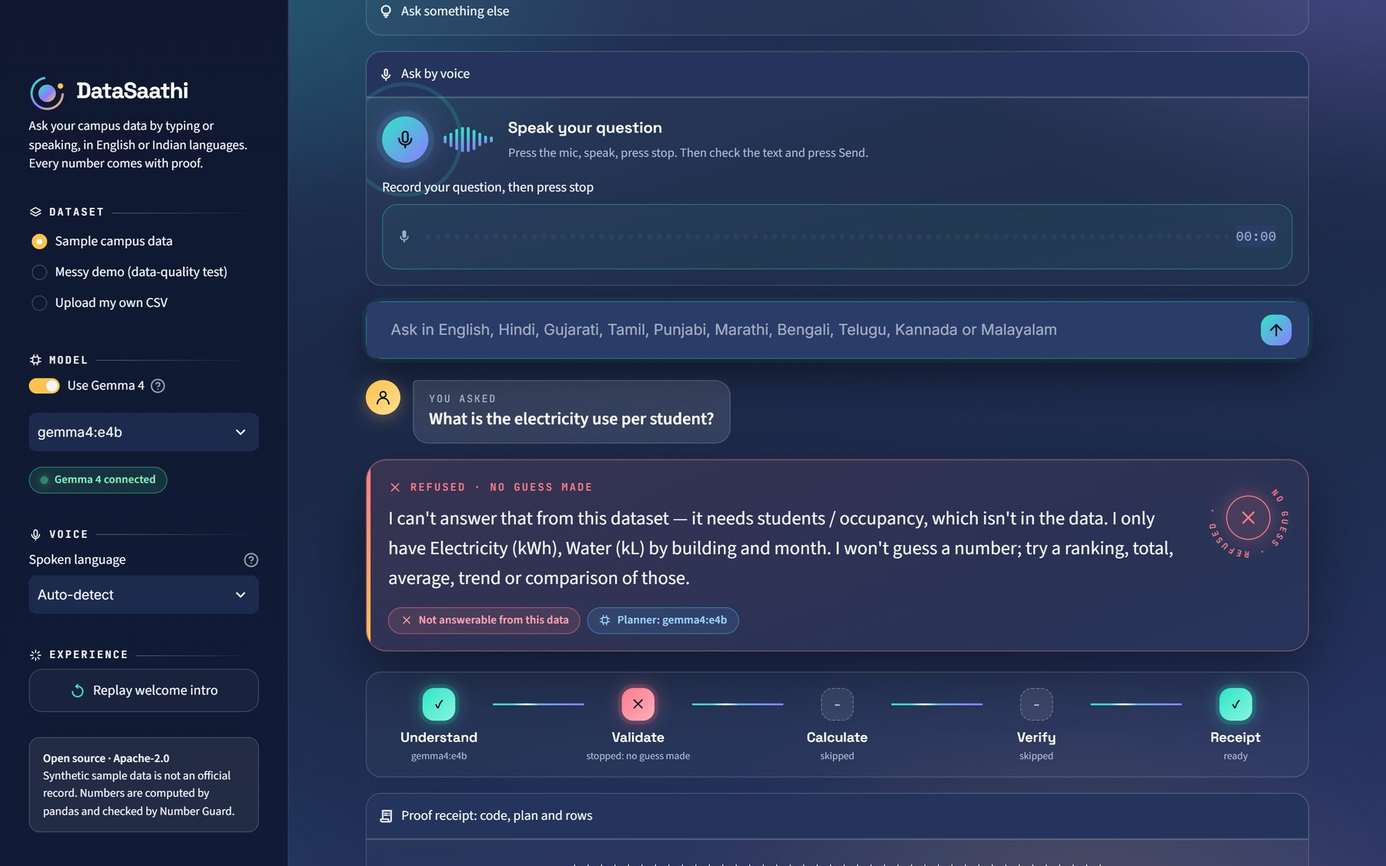
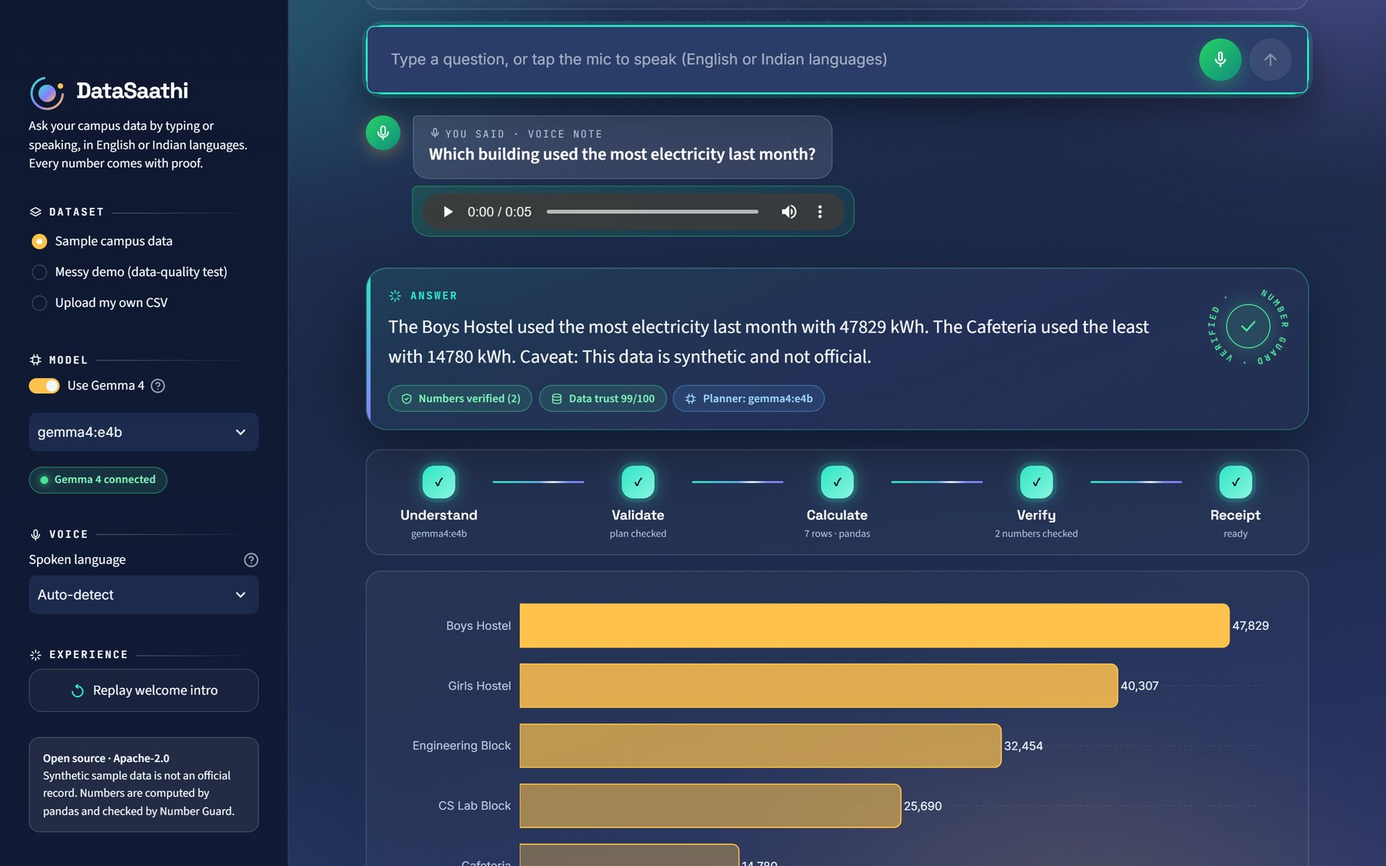
Voice works like a WhatsApp voice note
- the separate "Ask by voice" panel is replaced by a green mic inside the
  question bar (st.chat_input with accept_audio): record, tap the check to
  send or the cross to delete, with a red "Recording" label while it runs
- a sent voice note is transcribed and asked straight away (no extra
  confirm step), and shows as a voice-note bubble that can be replayed
- silent or unclear recordings get a clear message instead of no output
- Whisper is preloaded in the background at start, so the first voice
  note does not wait for the model to load
- README, pitch and design notes describe the new flow; new voice screenshot

Changed region(s): [[0.2489, 0.3111, 0.9333, 1.0], [0.2489, 0.0, 0.9644, 0.28], [0.8711, 0.2489, 0.9333, 0.3111]]

diff --git a/datasaathi/datasaathi/theme.css b/datasaathi/datasaathi/theme.css
@@ -351,7 +351,6 @@ div[data-testid="stButton"] > button:disabled { opacity:.45; transform:none; box
   box-shadow:0 0 0 4px rgba(46,230,197,.06), 0 16px 40px rgba(0,0,0,.45); backdrop-filter:blur(14px); }
 [data-testid="stChatInput"]:focus-within { border-color:var(--teal) !important; box-shadow:0 0 0 4px rgba(46,230,197,.16), 0 16px 40px rgba(0,0,0,.45); }
 [data-testid="stChatInput"] textarea { font-size:.98rem; }
-[data-testid="stChatInputSubmitButton"] { background:linear-gradient(135deg,var(--teal),var(--violet)) !important; border-radius:12px !important; color:#04121A !important; }
 [data-testid="stTextInput"] input, [data-baseweb="select"] > div, [data-baseweb="input"] { background:rgba(255,255,255,.04) !important; border-color:var(--hair) !important; border-radius:12px !important; }
 [data-testid="stAudioInput"] > div { border-radius:var(--r-md); border:1px solid rgba(46,230,197,.3); background:rgba(46,230,197,.05); }
 [data-testid="stRadio"] label { padding:.3rem .2rem; }
@@ -368,11 +367,6 @@ hr { border-color:var(--hair) !important; }
 [class*="st-key-scroller"] iframe { height:0 !important; border:0; }
 [data-testid="stElementContainer"]:has(> [class*="st-key-scroller"]), [data-testid="stLayoutWrapper"]:has(> [class*="st-key-scroller"]) { margin:0 !important; height:0; }
 
-/* ---------- voice: after recording, Send replaces play/pause ---------- */
-[data-testid="stAudioInput"] button[aria-label="Play"], [data-testid="stAudioInput"] button[aria-label="Pause"] { display:none !important; }
-.st-key-voice_send { padding:.9rem 1rem .8rem; border-radius:var(--r-md); background:linear-gradient(135deg,rgba(46,230,197,.10),rgba(139,124,255,.10));
-  border:1px solid rgba(46,230,197,.32); margin-top:.3rem; }
-.st-key-voice_send div[data-testid="stButton"] > button[kind="primary"] { min-height:2.65rem; font-size:1rem; }
 .listen { margin:.6rem 0 .4rem !important; }
 .listen .lt { display:flex; align-items:center; gap:.5rem; font-family:var(--display); font-weight:600; font-size:1.02rem; color:#fff; }
 .listen .lt svg { width:18px; height:18px; color:var(--teal); animation:pulse 1.2s infinite; }
@@ -522,3 +516,28 @@ div[data-testid="stButton"] > button[kind="primary"]::before { background:rgba(2
 .think .drops i:nth-child(2) { background:var(--violet); animation-delay:.15s; } .think .drops i:nth-child(3) { background:var(--amber); animation-delay:.3s; }
 @keyframes dropbounce { 0%,100% { transform:translateY(0) scale(1); } 50% { transform:translateY(-14px) scale(.82); } }
 @media (max-width:560px) { .think .drops { display:none; } }
+
+/* ============ WhatsApp-style voice in the message bar ============ */
+:root { --wa:#25D366; --wa-d:#128C7E; }
+[data-testid="stChatInputMicButton"], [data-testid="stChatInputApproveButton"], [data-testid="stChatInputSubmitButton"] {
+  width:44px !important; height:44px !important; min-width:44px; border-radius:50% !important; border:none !important; display:grid; place-items:center; }
+[data-testid="stChatInputMicButton"], [data-testid="stChatInputApproveButton"], [data-testid="stChatInputSubmitButton"]:not(:disabled) {
+  background:linear-gradient(135deg,var(--wa),var(--wa-d)) !important; box-shadow:0 6px 18px rgba(37,211,102,.35); }
+[data-testid="stChatInputSubmitButton"]:disabled { background:rgba(255,255,255,.08) !important; box-shadow:none; }
+[data-testid="stChatInputMicButton"], [data-testid="stChatInputApproveButton"], [data-testid="stChatInputSubmitButton"]:not(:disabled) { color:#fff !important; }
+[data-testid="stChatInputMicButton"] svg, [data-testid="stChatInputApproveButton"] svg, [data-testid="stChatInputSubmitButton"]:not(:disabled) svg { color:#fff !important; }
+[data-testid="stChatInputMicButton"]:hover, [data-testid="stChatInputApproveButton"]:hover { transform:scale(1.08); }
+[data-testid="stChatInputApproveButton"] { width:50px !important; height:50px !important; animation:pulse-wa 1.6s ease-in-out infinite; }
+@keyframes pulse-wa { 0%,100% { box-shadow:0 0 0 0 rgba(37,211,102,.55); } 60% { box-shadow:0 0 0 10px rgba(37,211,102,0); } }
+[data-testid="stChatInputCancelButton"] { width:40px !important; height:40px !important; border-radius:50% !important; background:rgba(255,122,138,.14) !important; }
+[data-testid="stChatInputCancelButton"], [data-testid="stChatInputCancelButton"] svg { color:var(--coral) !important; }
+/* while recording: red pulsing dot and label at the start of the bar */
+[data-testid="stChatInput"]:has([data-testid="stChatInputApproveButton"]) { border-color:rgba(255,122,138,.55) !important; box-shadow:0 0 0 4px rgba(255,122,138,.10), 0 16px 40px rgba(0,0,0,.45); position:relative; }
+[data-testid="stChatInput"]:has([data-testid="stChatInputApproveButton"])::before { content:"● Recording · tap ✓ to send, ✕ to delete"; position:absolute; left:18px; top:-24px;
+  font:600 .74rem var(--body); color:var(--coral); letter-spacing:.02em; animation:pulse 1.2s infinite; }
+/* the sent voice note: a green bubble with the player, under the question */
+[class*="st-key-vnote_"] { max-width:460px; margin:-.35rem 0 .8rem 3rem; padding:.45rem .6rem .35rem; border-radius:6px 18px 18px 18px;
+  background:linear-gradient(135deg,rgba(37,211,102,.18),rgba(18,140,126,.16)); border:1px solid rgba(37,211,102,.35); }
+[class*="st-key-vnote_"] audio { width:100%; height:38px; }
+.ask-bubble.voice .av { background:linear-gradient(135deg,var(--wa),var(--wa-d)); color:#fff; }
+.ask-bubble .l svg { width:12px; height:12px; vertical-align:-1px; margin-right:.3rem; }

diff --git a/datasaathi/app.py b/datasaathi/app.py
@@ -1,7 +1,6 @@
 """DataSaathi 2.0: ask community data questions in English or Indian languages, by typing or speaking.
 Every answer is computed by code and ships with a Proof Receipt.
 Tabs: Ask · Waste Radar · Data Trust · History. 2.0 changes only the visual layer (ui.py, theme.css, charts)."""
-import hashlib
 import json
 from pathlib import Path
 import pandas as pd
@@ -46,6 +45,14 @@ def warm_model(name: str):
     return True
 
 
+@st.cache_resource(show_spinner=False)
+def warm_voice():
+    """Load the speech model in the background once, so the first voice note does not wait for it."""
+    import threading
+    threading.Thread(target=voice.warm, daemon=True).start()
+    return True
+
+
 # ---------------- sidebar ----------------
 with st.sidebar:
     st.markdown(ui.brand(), unsafe_allow_html=True)
@@ -72,6 +79,8 @@ with st.sidebar:
                    "eight other Indian languages for common phrasings). To enable Gemma 4: `ollama pull gemma4:e4b`, then refresh.")
     st.markdown(ui.side_h("mic", "Voice"), unsafe_allow_html=True)
     voice_lang = st.selectbox("Spoken language", list(voice.STT_LANGUAGES), help="Pick the language you will speak, or Auto-detect.")
+    if voice.available():
+        warm_voice()
     st.markdown(ui.side_h("spark", "Experience"), unsafe_allow_html=True)
     if st.button("Replay welcome intro", width="stretch", icon=":material/replay:"):
         st.session_state["intro_seen"] = False
@@ -91,6 +100,22 @@ def load_named(name: str):
 def explain_finding(f, use_gemma: bool, model: str):
     """Waste Radar wording, cached so Gemma is not asked again on every click (the text itself is unchanged)."""
     return waste_radar.explain(f, use_gemma=use_gemma, model=model)
+
+
+def voice_to_text(clip: bytes, lang_label: str) -> tuple[str | None, str]:
+    """(transcript, problem): the transcript of a voice note, or None and a plain reason why there is none."""
+    lvl = voice.level(clip)
+    if lvl and lvl[1] < voice.SILENT_PEAK:
+        return None, (f"Could not hear anything: the {lvl[0]:.1f} s voice note is silent, so the browser got no sound from your "
+                      "microphone. Check that the mic is not muted (Windows: Settings → System → Sound → Input) and that the "
+                      "browser may use it (the icon at the left of the address bar), then record again.")
+    try:
+        heard, _ = voice.transcribe(clip, voice.STT_LANGUAGES[lang_label])
+    except Exception as exc:
+        return None, f"Could not turn the voice note into text ({type(exc).__name__}: {exc}). Please type the question instead."
+    if not heard.strip():
+        return None, "No speech was found in the voice note. Speak a little closer to the microphone and send it again."
+    return heard.strip(), ""
 
 
 def campus_kpis(df: pd.DataFrame, card, limit: int = 4) -> list[dict]:
@@ -141,7 +166,11 @@ def scroll_to(selector: str, block: str = "start"):
 
 def show(a, where: str, fresh: bool):
     """Render one answer: question, answer, pipeline trace, chart/table, caveats and the Proof Receipt."""
-    st.markdown(ui.question(a.question), unsafe_allow_html=True)
+    clip = st.session_state.get("voice_clips", {}).get(id(a))
+    st.markdown(ui.question(a.question, voice=clip is not None), unsafe_allow_html=True)
+    if clip is not None:
+        with st.container(key=f"vnote_{where}"):
+            st.audio(clip, format="audio/wav")
     refused = a.status == "refused"
     st.markdown(ui.answer_box(a.text, refused, None if refused else (a.guard.ok if a.guard else None),
                               len(a.guard.checked) if a.guard else 0, a.planner, a.trust_score, fresh=fresh), unsafe_allow_html=True)
@@ -198,69 +227,34 @@ with tab_ask:
                     if cols[i].button(s_, key=f"s{gi}_{start + i}", width="stretch", icon=mat):
                         clicked = s_
 
-    voice_q = None
-    with st.expander("Ask by voice", icon=":material/mic:"):
-        if not voice.available():
-            st.info("Voice questions need the speech model. Run `pip install faster-whisper` and restart the app. "
-                    "The Colab notebook installs it for you.")
+    # one message bar like WhatsApp: type, or tap the mic, record, replay or delete the clip, then send
+    voice_ok = voice.available()
+    sent = st.chat_input("Type a question, or tap the mic to speak (English or Indian languages)", accept_audio=voice_ok,
+                         key="ask_bar")
+    typed, clip, heard = None, None, None
+    if sent is not None:
+        typed = ((sent.text if voice_ok else sent) or "").strip() or None
+        clip = sent.audio.getvalue() if voice_ok and sent.audio is not None else None
+    if clip:
+        busy = st.empty()                          # our own loader while Whisper turns the voice note into text
+        busy.markdown(ui.listening(), unsafe_allow_html=True)
+        scroll_to(".listen", "center")
+        heard, problem = voice_to_text(clip, voice_lang)
+        busy.empty()
+        if heard:
+            typed = heard
         else:
-            st.markdown(ui.voice_head(), unsafe_allow_html=True)
-            audio = st.audio_input("Record your question, then press stop", key="mic")
-            if audio is not None:
-                data = audio.getvalue()
-                digest = hashlib.md5(data).hexdigest()
-                if st.session_state.get("voice_hash") != digest:
-                    lvl = voice.level(data)
-                    st.session_state["voice_trace"] = ""
-                    if lvl and lvl[1] < voice.SILENT_PEAK:
-                        st.session_state["voice_text"] = ""
-                        st.session_state["voice_note"] = (
-                            f"Could not hear anything: the {lvl[0]:.1f} s recording is silent, so the browser got no sound "
-                            "from your microphone. Check that the mic is not muted (Windows: Settings → System → Sound → "
-                            "Input, speak and watch the level bar), that the right input device is selected there, and that "
-                            "the browser is allowed to use the microphone (the icon at the left of the address bar).")
-                    else:
-                        busy = st.empty()                  # our own loader instead of the page fading while Whisper runs
-                        busy.markdown(ui.listening(), unsafe_allow_html=True)
-                        try:
-                            heard, detected = voice.transcribe(data, voice.STT_LANGUAGES[voice_lang])
-                            st.session_state["voice_text"] = heard
-                            rec = f"Recording: {lvl[0]:.1f} s, peak level {lvl[1]:.0%}. " if lvl else ""
-                            if heard:
-                                st.session_state["voice_note"] = rec + (f"Detected language: {detected}" if detected else "")
-                            else:
-                                st.session_state["voice_note"] = (rec + "No speech was found in it. Speak a little louder or "
-                                                                  "closer to the microphone and record again.")
-                        except Exception as exc:
-                            import traceback
-                            st.session_state["voice_text"] = ""
-                            st.session_state["voice_note"] = f"Could not transcribe: {type(exc).__name__}: {exc}"
-                            st.session_state["voice_trace"] = traceback.format_exc()
-                        busy.empty()
-                    st.session_state["voice_hash"] = digest
-                if st.session_state.pop("voice_sent", False):   # the transcript was sent: clear it so Send is not pressed twice
-                    st.session_state["voice_text"] = ""
-                    st.session_state["voice_note"] = "Sent. Record again to ask another question."
-                with st.container(key="voice_send"):
-                    c_text, c_send = st.columns([5, 1], vertical_alignment="bottom")
-                    heard_text = c_text.text_input("What I heard (edit it if needed)", key="voice_text")
-                    if c_send.button("Send", type="primary", disabled=not heard_text.strip(), icon=":material/send:", width="stretch"):
-                        voice_q = heard_text.strip()
-                        st.session_state["voice_sent"] = True
-                if st.session_state.get("voice_note"):
-                    st.caption(st.session_state["voice_note"])
-                    if st.session_state.get("voice_trace") and str(st.session_state["voice_note"]).startswith("Could not"):
-                        with st.expander("Technical details (send this if you ask for help)"):
-                            st.code(st.session_state["voice_trace"])
-
-    typed = st.chat_input("Ask in English, Hindi, Gujarati, Tamil, Punjabi, Marathi, Bengali, Telugu, Kannada or Malayalam")
-    question = clicked or voice_q or typed
+            st.markdown(ui.callout(problem, "warn"), unsafe_allow_html=True)
+    question = clicked or typed
     if question:
         ph = st.empty()
         ph.markdown(ui.thinking(), unsafe_allow_html=True)
         scroll_to(".think", "center")             # bring the running analysis into view right away
         st.session_state["scroll_answer"] = True
-        st.session_state.history.append(answer(question, df, card, use_gemma=use_gemma, model=model, log=True))
+        a = answer(question, df, card, use_gemma=use_gemma, model=model, log=True)
+        st.session_state.history.append(a)
+        if heard:                                  # keep the voice note so it can be replayed next to the question
+            st.session_state.setdefault("voice_clips", {})[id(a)] = clip
         ph.empty()
         st.rerun()          # re-render so the suggestions fold away and the newest answer is shown
 

diff --git a/datasaathi/datasaathi/ui.py b/datasaathi/datasaathi/ui.py
@@ -204,9 +204,10 @@ def group_label(ic: str, text: str, color: str = AMBER) -> str:
     return f'<div class="grp" style="--c:{color}">{icon(ic)}{e(text)}</div>'
 
 
-def question(q: str) -> str:
-    return (f'<div class="ask-bubble"><div class="av">{icon("user")}</div><div class="b"><div class="l">You asked</div>'
-            f'<div class="q">{e(q)}</div></div></div>')
+def question(q: str, voice: bool = False) -> str:
+    label = f'{icon("mic")}You said · voice note' if voice else "You asked"
+    return (f'<div class="ask-bubble{" voice" if voice else ""}"><div class="av">{icon("mic" if voice else "user")}</div><div class="b">'
+            f'<div class="l">{label}</div><div class="q">{e(q)}</div></div></div>')
 
 
 def _seal(kind: str) -> str:

diff --git a/datasaathi/datasaathi/voice.py b/datasaathi/datasaathi/voice.py
@@ -51,6 +51,19 @@ def _load(force_cpu: bool = False):
     return _model
 
 
+def warm() -> None:
+    """Load Whisper ahead of the first voice note; one second of silence also settles GPU vs CPU (GPU libraries may be missing)."""
+    try:
+        m = _load()
+        try:
+            list(m.transcribe(np.zeros(TARGET_RATE, dtype=np.float32), vad_filter=False)[0])
+        except RuntimeError:
+            if _device == "cuda":
+                _load(force_cpu=True)
+    except Exception:
+        pass
+
+
 def wav_to_audio(data: bytes, target: int = TARGET_RATE) -> np.ndarray:
     """Decode a PCM WAV recording to mono float32 at 16 kHz (what Whisper expects)."""
     with wave.open(io.BytesIO(data)) as w:

diff --git a/README.md b/README.md
@@ -103,7 +103,7 @@ The Docker files are provided but have not been tested end to end by the author.
 3. **Compare.** *Compare electricity use in September and October.*
 4. **Unavailable statistic.** *What is the electricity use per student?* The app refuses: there is no headcount in the data.
 5. **Missing observation.** *Show electricity usage for Library in March 2026.*
-6. **Indian languages.** *पिछले महीने सबसे ज्यादा बिजली किस बिल्डिंग ने इस्तेमाल की?* (Hindi), or the Gujarati, Tamil and Punjabi suggestions. Or press **Ask by voice** and speak.
+6. **Indian languages.** *पिछले महीने सबसे ज्यादा बिजली किस बिल्डिंग ने इस्तेमाल की?* (Hindi), or the Gujarati, Tamil and Punjabi suggestions. Or tap the green **mic** in the question bar and speak.
 7. **Unasked problems.** *Is there any waste in water use?* or open the **Waste Radar** tab. Girls Hostel stays near full load in the June vacation.
 8. **Bad data.** Switch to *Messy demo* and watch the Data Trust score fall and answers carry warnings.
 9. **New data.** Choose *Upload my own CSV* and upload `data/campus_demo_upload.csv` with `data/campus_demo_upload.card.yaml`. It has different columns and names, and a hidden water leak. Questions are in `docs/UPLOAD_DEMO_QUESTIONS.txt`.
@@ -139,7 +139,7 @@ The Docker files are provided but have not been tested end to end by the author.
 | Answer language | Verified English answer is translated by Gemma 4; **Number Guard re-checks every number** and falls back to English if any changed | English |
 | Warnings and notes | English | English |
 
-**Voice.** Open **Ask by voice** on the Ask tab, allow the microphone, speak, press stop, check the text it heard (you can edit it), then press **Ask this question**. Speech is turned into text by Whisper (`faster-whisper`), which runs on your machine or Colab GPU after a one-time model download.
+**Voice (works like a WhatsApp voice note).** Tap the green **mic** in the question bar and allow the microphone. While it records, a red *Recording* label shows: tap **✓** to send or **✕** to delete. The app turns the voice note into text, asks it straight away, and shows your question as a voice-note bubble you can **replay**. A silent recording (muted mic) gets a clear message instead of an empty answer. Speech is turned into text by Whisper (`faster-whisper`), which runs on your machine or Colab GPU after a one-time model download.
 
 ```bash
 pip install -r requirements-voice.txt                    # optional; the Colab notebook does this for you
@@ -158,8 +158,8 @@ All captured from the running app with Gemma 4 (`gemma4:e4b`) connected, on the 
 | Answer: Number Guard seal, five-step trace and chart | Proof Receipt, the code that ran and the rows used |
 |---|---|
 | ![Answer card with the verified seal, pipeline trace and ranking chart](datasaathi/docs/screenshots/ask-answer.jpg) | ![Printed proof receipt with VERIFIED stamp, code and rows](datasaathi/docs/screenshots/receipt.jpg) |
-| **Refusal: no headcount in the data, so no guess** | **Voice: speak, check the text, press Send** |
-| ![Refused answer with the red seal and a REFUSED receipt](datasaathi/docs/screenshots/refusal.jpg) | ![Voice panel with the recorder above the question box](datasaathi/docs/screenshots/voice.jpg) |
+| **Refusal: no headcount in the data, so no guess** | **Voice note: tap the mic, speak, ✓ to send, replay it** |
+| ![Refused answer with the red seal and a REFUSED receipt](datasaathi/docs/screenshots/refusal.jpg) | ![Voice note bubble with a player under the question bar, and the answer](datasaathi/docs/screenshots/voice.jpg) |
 | **Waste Radar: problems nobody asked about** | **Data Trust: how reliable the file is** |
 | ![Radar scope and an incident card, actual against expected](datasaathi/docs/screenshots/waste-radar.jpg) | ![Ring gauges per metric and the issue timeline](datasaathi/docs/screenshots/data-trust.jpg) |
 | **History: every question this session** | **Welcome curtain (plays once, `?intro=0` skips it)** |
@@ -203,7 +203,7 @@ Each question replaces the previous answer on the Ask tab, so the page stays sho
 - every answer as a card with a rotating **Number Guard seal** (green when every figure was verified, red when the app refused), the five-step pipeline trace, a restyled chart (shaded ranking bars, a smooth trend with the peak marked) and the printed **Proof Receipt** with a VERIFIED / REFUSED stamp;
 - incident cards in Waste Radar (actual against expected), ring gauges and an issue timeline in Data Trust, a question timeline in History;
 - the page **scrolls itself** to the running analysis when you ask, and to the answer when it is ready;
-- **voice**: record, a loader shows while speech is turned into text, then check the text and press **Send**.
+- **voice like WhatsApp**: a green mic in the question bar; record, ✓ to send or ✕ to delete; a loader while speech becomes text; then your question shows as a voice-note bubble you can replay, and the answer follows.
 
 On first open, a short **welcome curtain** ("HACKTOBER | FEST" written across two curtains that part to reveal the app) plays once per session and covers the whole window, sidebar included. Add `?intro=0` to the address to skip it, or press **Replay welcome intro** in the sidebar.
 
@@ -296,7 +296,7 @@ Data is treated as monthly. Daily readings should be summed to months first. Wit
 | Colab says no GPU | Runtime → Change runtime type → T4 GPU, then reconnect |
 | Welcome curtain is in the way | Add `?intro=0` to the address (for example `http://localhost:8501/?intro=0`), or use it once and it will not return in that session |
 | Sidebar closed and gone | Click the teal **»** button at the top-left of the page to reopen it |
-| **Ask by voice** says it needs the speech model | `pip install -r requirements-voice.txt`, then restart the app |
+| No mic in the question bar, or voice says it needs the speech model | `pip install -r requirements-voice.txt`, then restart the app |
 | Microphone does not record | Allow microphone access for the page; use `localhost` or an `https` link |
 | Question answered "not answerable" unexpectedly | Open the Proof Receipt; the plan and `missing_field` say what the app thought was missing |
 

diff --git a/datasaathi/README.md b/datasaathi/README.md
@@ -103,7 +103,7 @@ The Docker files are provided but have not been tested end to end by the author.
 3. **Compare.** *Compare electricity use in September and October.*
 4. **Unavailable statistic.** *What is the electricity use per student?* The app refuses: there is no headcount in the data.
 5. **Missing observation.** *Show electricity usage for Library in March 2026.*
-6. **Indian languages.** *पिछले महीने सबसे ज्यादा बिजली किस बिल्डिंग ने इस्तेमाल की?* (Hindi), or the Gujarati, Tamil and Punjabi suggestions. Or press **Ask by voice** and speak.
+6. **Indian languages.** *पिछले महीने सबसे ज्यादा बिजली किस बिल्डिंग ने इस्तेमाल की?* (Hindi), or the Gujarati, Tamil and Punjabi suggestions. Or tap the green **mic** in the question bar and speak.
 7. **Unasked problems.** *Is there any waste in water use?* or open the **Waste Radar** tab. Girls Hostel stays near full load in the June vacation.
 8. **Bad data.** Switch to *Messy demo* and watch the Data Trust score fall and answers carry warnings.
 9. **New data.** Choose *Upload my own CSV* and upload `data/campus_demo_upload.csv` with `data/campus_demo_upload.card.yaml`. It has different columns and names, and a hidden water leak. Questions are in `docs/UPLOAD_DEMO_QUESTIONS.txt`.
@@ -139,7 +139,7 @@ The Docker files are provided but have not been tested end to end by the author.
 | Answer language | Verified English answer is translated by Gemma 4; **Number Guard re-checks every number** and falls back to English if any changed | English |
 | Warnings and notes | English | English |
 
-**Voice.** Open **Ask by voice** on the Ask tab, allow the microphone, speak, press stop, check the text it heard (you can edit it), then press **Ask this question**. Speech is turned into text by Whisper (`faster-whisper`), which runs on your machine or Colab GPU after a one-time model download.
+**Voice (works like a WhatsApp voice note).** Tap the green **mic** in the question bar and allow the microphone. While it records, a red *Recording* label shows: tap **✓** to send or **✕** to delete. The app turns the voice note into text, asks it straight away, and shows your question as a voice-note bubble you can **replay**. A silent recording (muted mic) gets a clear message instead of an empty answer. Speech is turned into text by Whisper (`faster-whisper`), which runs on your machine or Colab GPU after a one-time model download.
 
 ```bash
 pip install -r requirements-voice.txt                    # optional; the Colab notebook does this for you
@@ -158,8 +158,8 @@ All captured from the running app with Gemma 4 (`gemma4:e4b`) connected, on the 
 | Answer: Number Guard seal, five-step trace and chart | Proof Receipt, the code that ran and the rows used |
 |---|---|
 | ![Answer card with the verified seal, pipeline trace and ranking chart](docs/screenshots/ask-answer.jpg) | ![Printed proof receipt with VERIFIED stamp, code and rows](docs/screenshots/receipt.jpg) |
-| **Refusal: no headcount in the data, so no guess** | **Voice: speak, check the text, press Send** |
-| ![Refused answer with the red seal and a REFUSED receipt](docs/screenshots/refusal.jpg) | ![Voice panel with the recorder above the question box](docs/screenshots/voice.jpg) |
+| **Refusal: no headcount in the data, so no guess** | **Voice note: tap the mic, speak, ✓ to send, replay it** |
+| ![Refused answer with the red seal and a REFUSED receipt](docs/screenshots/refusal.jpg) | ![Voice note bubble with a player under the question bar, and the answer](docs/screenshots/voice.jpg) |
 | **Waste Radar: problems nobody asked about** | **Data Trust: how reliable the file is** |
 | ![Radar scope and an incident card, actual against expected](docs/screenshots/waste-radar.jpg) | ![Ring gauges per metric and the issue timeline](docs/screenshots/data-trust.jpg) |
 | **History: every question this session** | **Welcome curtain (plays once, `?intro=0` skips it)** |
@@ -203,7 +203,7 @@ Each question replaces the previous answer on the Ask tab, so the page stays sho
 - every answer as a card with a rotating **Number Guard seal** (green when every figure was verified, red when the app refused), the five-step pipeline trace, a restyled chart (shaded ranking bars, a smooth trend with the peak marked) and the printed **Proof Receipt** with a VERIFIED / REFUSED stamp;
 - incident cards in Waste Radar (actual against expected), ring gauges and an issue timeline in Data Trust, a question timeline in History;
 - the page **scrolls itself** to the running analysis when you ask, and to the answer when it is ready;
-- **voice**: record, a loader shows while speech is turned into text, then check the text and press **Send**.
+- **voice like WhatsApp**: a green mic in the question bar; record, ✓ to send or ✕ to delete; a loader while speech becomes text; then your question shows as a voice-note bubble you can replay, and the answer follows.
 
 On first open, a short **welcome curtain** ("HACKTOBER | FEST" written across two curtains that part to reveal the app) plays once per session and covers the whole window, sidebar included. Add `?intro=0` to the address to skip it, or press **Replay welcome intro** in the sidebar.
 
@@ -296,7 +296,7 @@ Data is treated as monthly. Daily readings should be summed to months first. Wit
 | Colab says no GPU | Runtime → Change runtime type → T4 GPU, then reconnect |
 | Welcome curtain is in the way | Add `?intro=0` to the address (for example `http://localhost:8501/?intro=0`), or use it once and it will not return in that session |
 | Sidebar closed and gone | Click the teal **»** button at the top-left of the page to reopen it |
-| **Ask by voice** says it needs the speech model | `pip install -r requirements-voice.txt`, then restart the app |
+| No mic in the question bar, or voice says it needs the speech model | `pip install -r requirements-voice.txt`, then restart the app |
 | Microphone does not record | Allow microphone access for the page; use `localhost` or an `https` link |
 | Question answered "not answerable" unexpectedly | Open the Proof Receipt; the plan and `missing_field` say what the app thought was missing |
 

diff --git a/datasaathi/docs/UI_REDESIGN_PLAN.md b/datasaathi/docs/UI_REDESIGN_PLAN.md
@@ -71,7 +71,8 @@ panels with gradient hairline borders, and instruments (gauges, radar sweep, spa
 Interface:
 - the page scrolls to the running analysis when a question is asked, then to the answer;
 - no page-wide fade during reruns; own loaders instead (analysis steps, and "Listening to your recording…" for voice);
-- voice: play/pause hidden after recording, transcript box with a **Send** button, cleared after sending;
+- voice works like a WhatsApp voice note: a green mic in the question bar (`st.chat_input(accept_audio=True)`), ✓ to send / ✕ to delete,
+  a loader while Whisper transcribes (preloaded at start), then a replayable voice-note bubble next to the question;
 - the suggestions panel collapses after every answer (a new expander key per question), so it is not shown twice;
 - the welcome curtain covers the whole window even with the sidebar open, and "Replay welcome intro" restarts it;
 - no version label on screen.

diff --git a/datasaathi/PITCH.md b/datasaathi/PITCH.md
@@ -26,5 +26,5 @@
 
 ## New: Indian languages and voice (add to the demo)
 - Ask the same question in **Gujarati, Tamil or Punjabi** (suggestion buttons) and, with Gemma 4 on, the answer comes back in that language with the same verified numbers. Say: "Number Guard re-checks every number after translation."
-- Open **Ask by voice**, speak a question in your language, show the text it heard, press *Ask this question*. Say: "Speech runs locally with Whisper; nothing is sent to a cloud service."
+- Tap the green **mic** in the question bar, speak a question in your language, tap **✓** to send; show the voice-note bubble (replayable) and the text it heard. Say: "Speech runs locally with Whisper; nothing is sent to a cloud service."
 - Honest line if asked: voice and keyword lists for the Indian languages are new and not reviewed by native speakers; Gemma 4 handles free-form wording.
